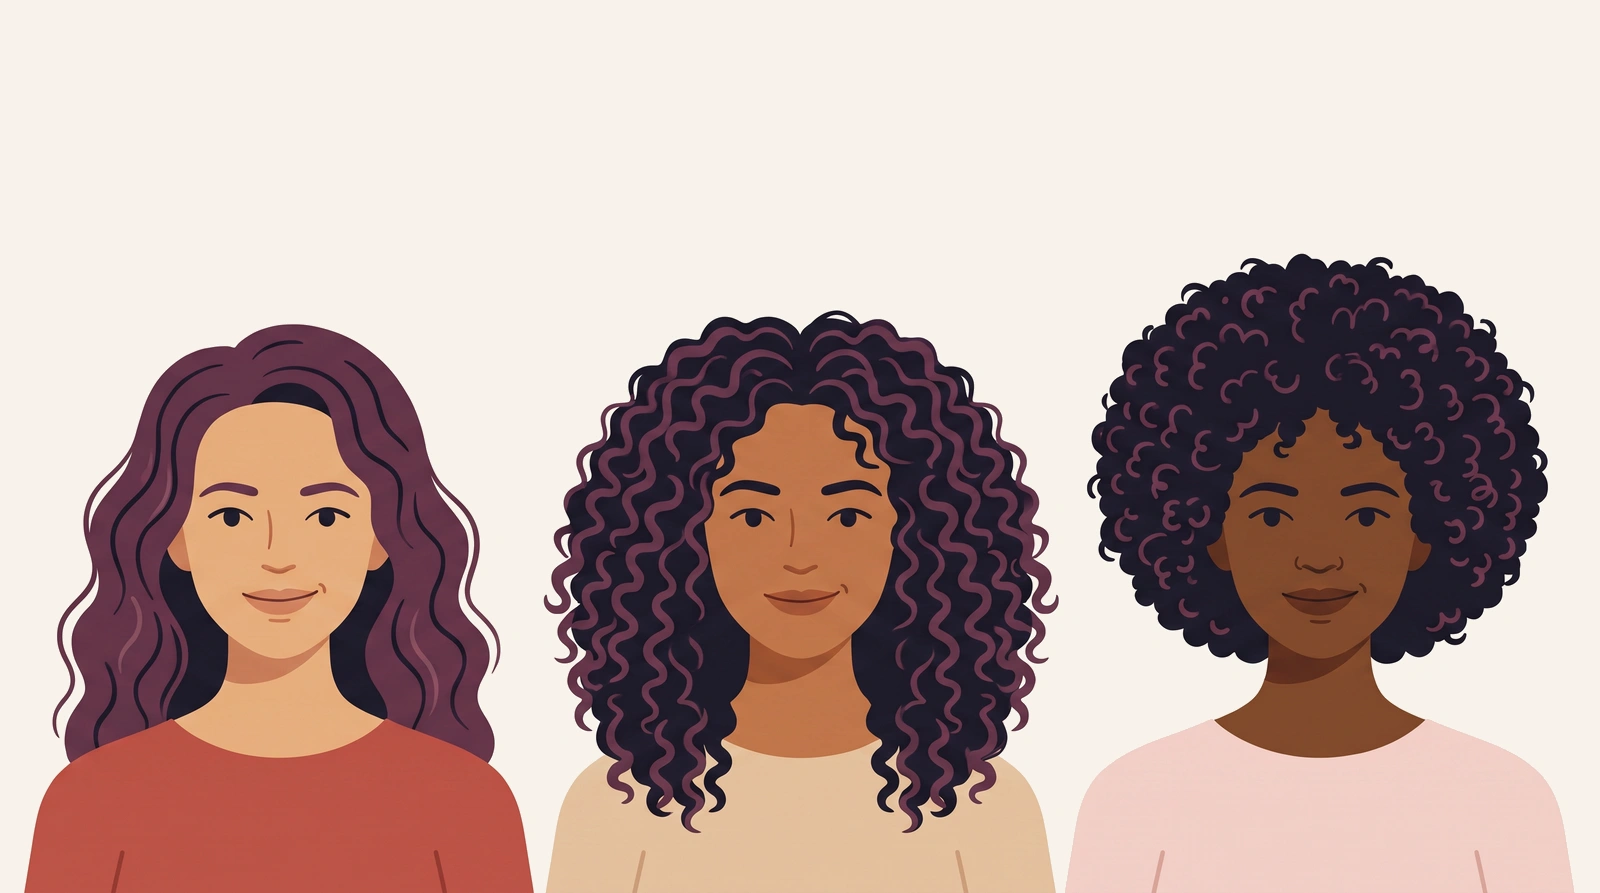
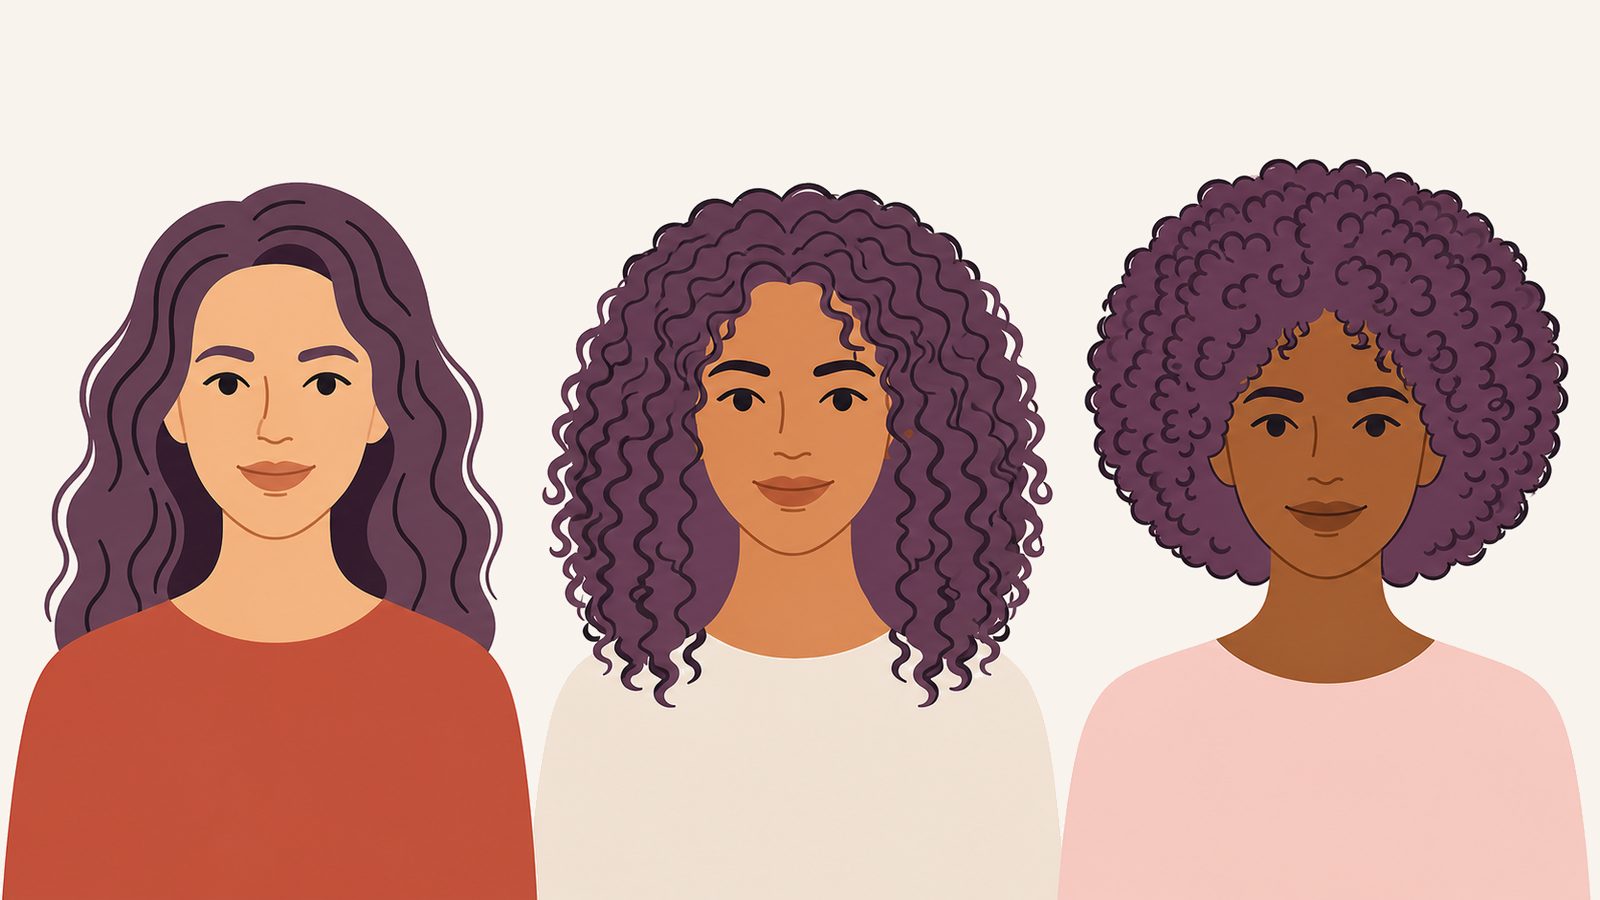
Cria avatares definitivos e referencias de angulos

diff --git a/.github/INSTRUCOES-IA.md b/.github/INSTRUCOES-IA.md
@@ -117,8 +117,9 @@ Toda ilustração gerada segue o mesmo sistema, senão o site vira colcha de ret
 O site usa três personagens fixas, uma por curvatura. A leitora precisa
 reconhecer a "dela" e se acostumar com elas.
 
-**As imagens que estão no repositório hoje são provisórias.** Substitua os
-arquivos, mantendo exatamente os mesmos caminhos e proporções:
+**As imagens que estão no repositório são as identidades definitivas.** Não
+redesenhe rosto, cabelo, tom de pele ou roupa. Mantenha exatamente os mesmos
+caminhos e proporções:
 
 | Arquivo | Uso | Proporção |
 |---|---|---|
@@ -143,11 +144,21 @@ em ameixa `#6B3D5E` e tinta `#2B2027`, fundo `#F8F3EC` chapado.
 **Nenhum tom de pele pode puxar para verde, oliva, amarelo ou cinza.** Confira
 antes de salvar; é o erro mais comum quando se pede pele clara a um gerador.
 
-**Gere as três na mesma imagem e recorte**, ou use imagem de referência. Gerar
-cada uma separada do zero produz rostos diferentes e quebra a identidade.
+Para criar outra pose ou cena, use sempre como referência a folha completa e a
+linha de ângulos da personagem correspondente:
 
-Quando os avatares tiverem outros ângulos e poses, guarde a folha de personagem
-em `public/avatares/referencia/`, fora do site publicado, para consulta futura.
+- `public/avatares/referencia/folha-personagens.webp`
+- `public/avatares/referencia/ondulada-angulos.webp`
+- `public/avatares/referencia/cacheada-angulos.webp`
+- `public/avatares/referencia/crespa-angulos.webp`
+
+Não gere uma personagem separada do zero. A folha registra vista frontal,
+três-quartos e perfil, preservando rosto, cabelo, tom de pele e roupa entre
+imagens futuras.
+
+A folha de personagem em `public/avatares/referencia/` é a referência canônica.
+Se uma pose nova for aprovada, acrescente-a à referência em vez de substituir a
+identidade existente.
 
 ### Uso nos artigos
 

diff --git a/HISTORICO.md b/HISTORICO.md
@@ -60,9 +60,6 @@ Não precisam ser rediscutidas, salvo se o proprietário mudar de ideia.
 
 ## O que está em aberto
 
-- **Avatares são provisórios.** As imagens em `public/avatares/` foram geradas
-  só para destravar o layout. O Codex vai refazer as quatro mantendo os mesmos
-  caminhos, seguindo a ficha em `.github/INSTRUCOES-IA.md`.
 - **Nenhum artigo em formato ranking foi publicado.** O suporte existe no
   código desde 7 de agosto, mas o formato ainda não foi usado. É a maior lacuna
   de tráfego comercial.
@@ -88,6 +85,15 @@ Não precisam ser rediscutidas, salvo se o proprietário mudar de ideia.
 ---
 
 ## Mudanças
+
+### 8 de agosto de 2026 — Codex — Avatares definitivos
+
+Substituídos os quatro avatares provisórios pelas identidades definitivas da
+ondulada, da cacheada e da crespa, mantendo os caminhos e as proporções usados
+pelo site. Criadas também uma folha conjunta e referências individuais com
+vista frontal, três-quartos e perfil em `public/avatares/referencia/`, para que
+as ilustrações dos próximos artigos preservem rosto, cabelo, pele, roupa e
+estilo visual. O fundo foi fixado no creme exato do site.
 
 ### 7 de agosto de 2026 — Claude Code — Páginas legais e histórico
 
